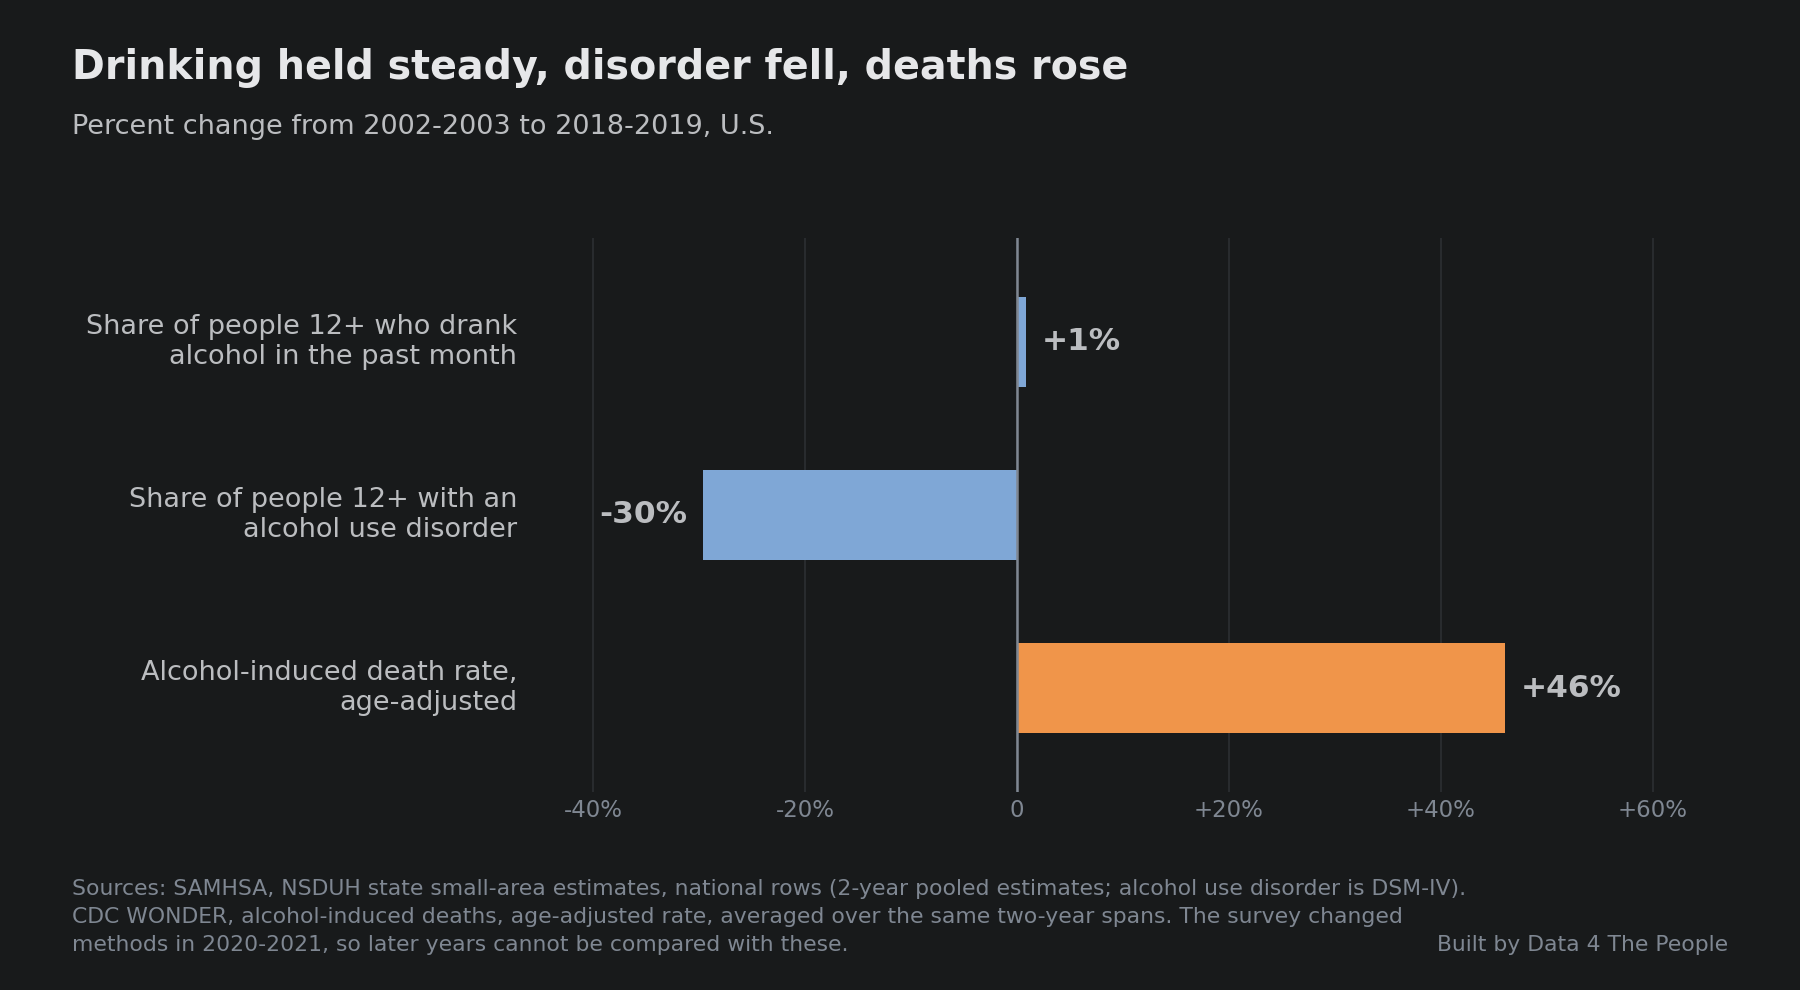
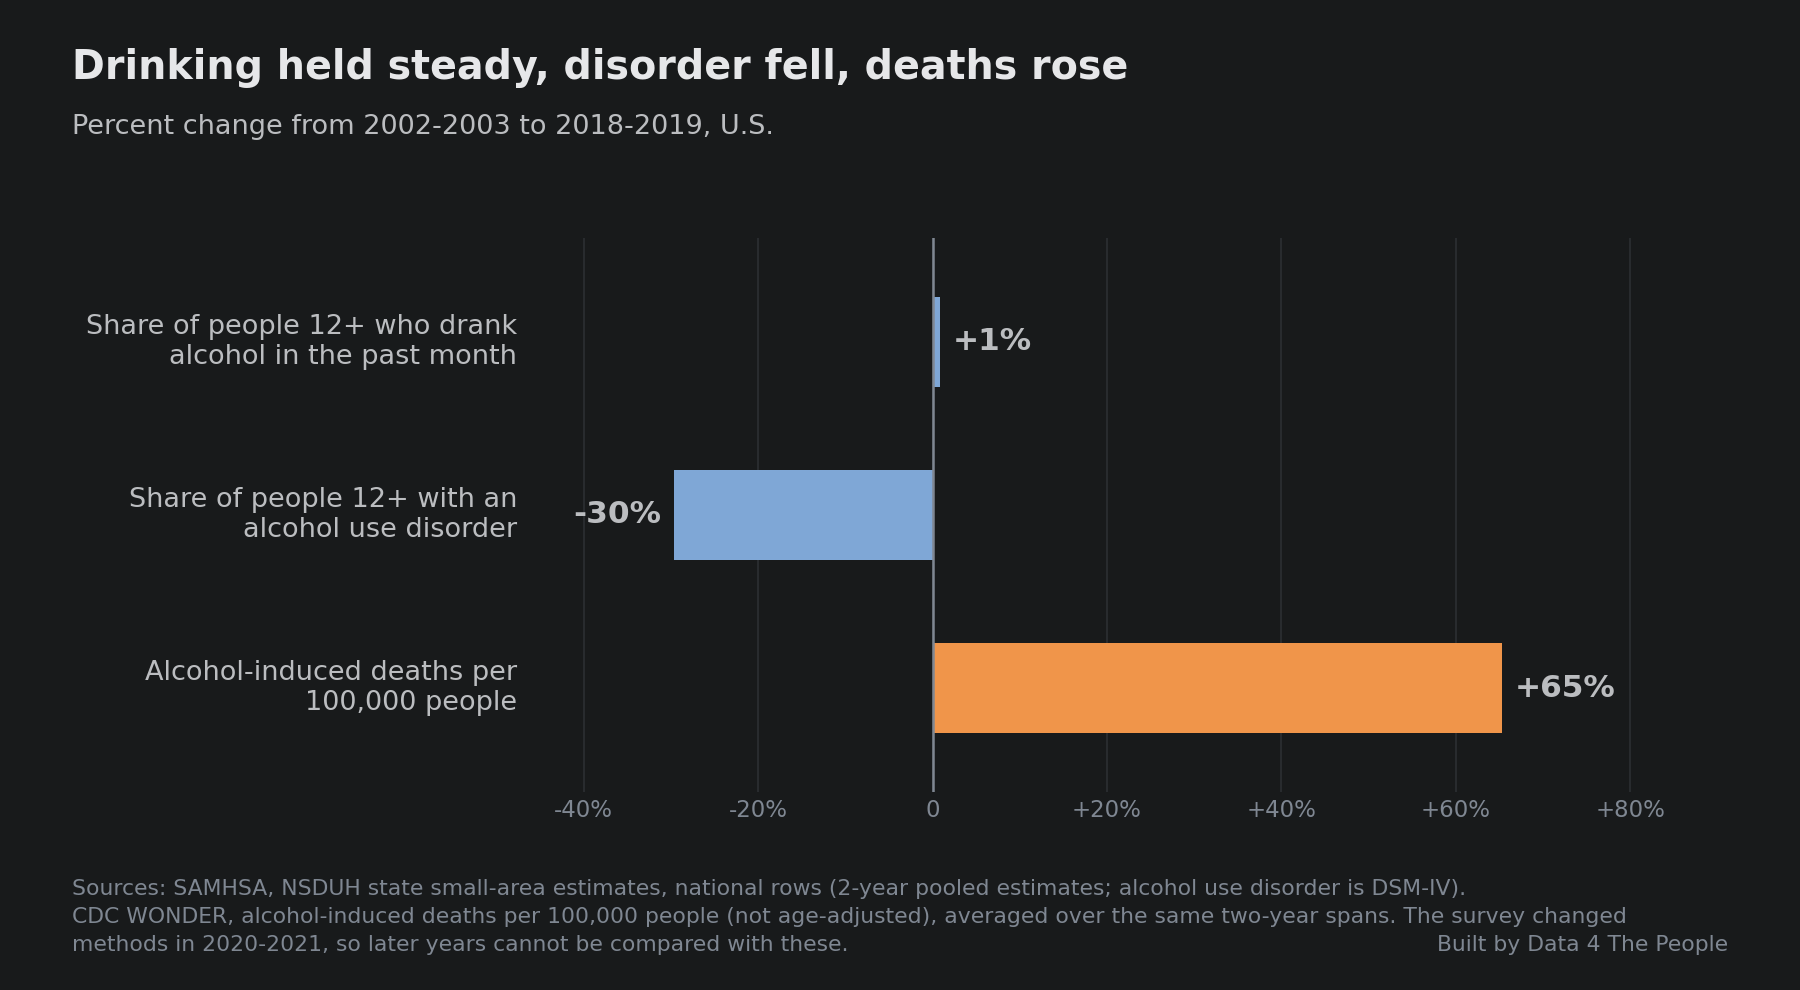
alcohol-deaths-data-for-thought: 2a edits applied, chart 4, About the data

diff --git a/scripts/alcohol/make_charts.py b/scripts/alcohol/make_charts.py
@@ -62,7 +62,7 @@ nv = n[n.bev == "all"].set_index("year").pc14  # NIAAA report #124 data file, ag
 rows = [
     ("Share of people 12+ who drank\nalcohol in the past month", pct(sv["ALCMON", 2003], sv["ALCMON", 2019]), SURVEY),
     ("Share of people 12+ with an\nalcohol use disorder", pct(sv["ABODALC", 2003], sv["ABODALC", 2019]), SURVEY),
-    ("Alcohol-induced death rate,\nage-adjusted", pct(avg("age_adjusted", 2002, 2003), avg("age_adjusted", 2018, 2019)), DEATH),
+    ("Alcohol-induced deaths per\n100,000 people", pct(avg("crude", 2002, 2003), avg("crude", 2018, 2019)), DEATH),
 ]
 fig, ax = plt.subplots(figsize=(12, 6.6), dpi=150)
 fig.patch.set_facecolor(BG); ax.set_facecolor(BG)
@@ -74,15 +74,16 @@ for i, (lab, v, c) in enumerate(rows):
             fontsize=15, fontweight="bold", color=TXT)
     ax.text(-0.02, yy, lab, transform=ax.get_yaxis_transform(), ha="right", va="center", fontsize=13, color=TXT)
 ax.axvline(0, color=MUTED, lw=1.2)
-ax.set_xlim(-45, 62); ax.set_yticks([]); ax.set_ylim(-0.6, len(rows) - 0.4)
-ax.set_xticks(range(-40, 61, 20)); ax.set_xticklabels([f"{t:+d}%" if t else "0" for t in range(-40, 61, 20)])
+ax.set_xlim(-45, 85); ax.set_yticks([]); ax.set_ylim(-0.6, len(rows) - 0.4)
+ax.set_xticks(range(-40, 81, 20)); ax.set_xticklabels([f"{t:+d}%" if t else "0" for t in range(-40, 81, 20)])
+assert max(v for _, v, _ in rows) < 75, "bar label would clip"
 ax.grid(axis="x", color=GRID, lw=0.8); ax.set_axisbelow(True)
 for sp in ("top", "right", "left", "bottom"): ax.spines[sp].set_visible(False)
 ax.tick_params(length=0, labelsize=11)
 fig.text(0.04, 0.92, "Drinking held steady, disorder fell, deaths rose", fontsize=19, fontweight="bold", color="#e6e7e9")
 fig.text(0.04, 0.865, "Percent change from 2002-2003 to 2018-2019, U.S.", fontsize=13, color=TXT)
 foot(fig, "Sources: SAMHSA, NSDUH state small-area estimates, national rows (2-year pooled estimates; alcohol use disorder is DSM-IV).\n"
-          "CDC WONDER, alcohol-induced deaths, age-adjusted rate, averaged over the same two-year spans. The survey changed\n"
+          "CDC WONDER, alcohol-induced deaths per 100,000 people (not age-adjusted), averaged over the same two-year spans. The survey changed\n"
           "methods in 2020-2021, so later years cannot be compared with these.")
 fig.savefig(os.path.join(OUT, "01-alcohol-change.png"), facecolor=BG)
 plt.close(fig)
@@ -126,3 +127,36 @@ foot(fig, "Source: NIAAA Surveillance Report #124 data file. Sales and shipments
 fig.savefig(os.path.join(OUT, "03-beer-to-spirits.png"), facecolor=BG)
 plt.close(fig)
 print("chart 3 strength", round(strength[0], 2), round(strength[yrs.index(2019)], 2), round(strength[-1], 2), "gal", round(gal0, 2), round(gal1, 2))
+
+# ---------- Chart 4: fewer gallons of drinks, more alcohol in each, more pure alcohol ----------
+def navg(col, ys): return n[n.bev == "all"].set_index("year")[col].loc[ys].mean()
+Y0, Y1 = [2002, 2003], [2018, 2019]
+g0, g1 = navg("beverage_gal_pc14", Y0), navg("beverage_gal_pc14", Y1)
+e0, e1 = navg("pc14_timevarying_abv", Y0), navg("pc14_timevarying_abv", Y1)
+rows4 = [("Gallons of beer, wine and\nspirits sold per person 14+", pct(g0, g1)),
+         ("Average alcohol content\nof those drinks", pct(e0 / g0, e1 / g1)),
+         ("Pure alcohol sold\nper person 14+", pct(e0, e1))]
+fig, ax = plt.subplots(figsize=(12, 6.6), dpi=150)
+fig.patch.set_facecolor(BG); ax.set_facecolor(BG)
+fig.subplots_adjust(left=0.30, right=0.93, top=0.76, bottom=0.20)
+for i, (lab, v) in enumerate(rows4):
+    yy = len(rows4) - 1 - i
+    ax.barh(yy, v, height=0.52, color=SURVEY)
+    ax.text(v + (0.6 if v >= 0 else -0.6), yy, f"{v:+.0f}%", va="center", ha="left" if v >= 0 else "right",
+            fontsize=15, fontweight="bold", color=TXT)
+    ax.text(-0.02, yy, lab, transform=ax.get_yaxis_transform(), ha="right", va="center", fontsize=13, color=TXT)
+ax.axvline(0, color=MUTED, lw=1.2)
+ax.set_xlim(-15, 25); ax.set_yticks([]); ax.set_ylim(-0.6, len(rows4) - 0.4)
+ax.set_xticks(range(-10, 21, 10)); ax.set_xticklabels([f"{t:+d}%" if t else "0" for t in range(-10, 21, 10)])
+ax.grid(axis="x", color=GRID, lw=0.8); ax.set_axisbelow(True)
+for sp in ("top", "right", "left", "bottom"): ax.spines[sp].set_visible(False)
+ax.tick_params(length=0, labelsize=11)
+fig.text(0.04, 0.92, "Fewer gallons of drinks, but more pure alcohol", fontsize=19, fontweight="bold", color="#e6e7e9")
+fig.text(0.04, 0.865, "Percent change from 2002-2003 to 2018-2019, U.S.", fontsize=13, color=TXT)
+foot(fig, "Source: NIAAA Surveillance Report #124 data file, two-year averages. Sales and shipments, not measured drinking.\n"
+          "Alcohol content uses NIAAA's year-by-year estimates for each drink type. With NIAAA's fixed content, pure alcohol\n"
+          "per person rose 7%.")
+fig.savefig(os.path.join(OUT, "04-fewer-gallons-more-alcohol.png"), facecolor=BG)
+plt.close(fig)
+for lab, v in rows4: print(lab.replace("\n", " "), round(v, 2))
+print("chart 4 values", round(g0, 2), round(g1, 2), round(100 * e0 / g0, 2), round(100 * e1 / g1, 2), round(e0, 3), round(e1, 3))

diff --git a/posts/alcohol-deaths-data-for-thought/POST.md b/posts/alcohol-deaths-data-for-thought/POST.md
@@ -22,29 +22,43 @@ Alcohol use in America is going down.
 
 Right?
 
-I’ve been a passive consumer of media on this topic, seeing random headlines in passing. Over times, these headlines created that story in my mind that alcohol use in America is in structural decline.
+I’ve been a passive consumer of media on this topic, seeing random headlines in passing. Over time, these headlines created that story in my mind that alcohol use in America is in structural decline.
 
-But then I spent some time studying Jameson’s Substance Abuse Disorder (SUD) map and realized my reckless passive consumption of media on this topic created a flawed story in my mind.
+But then I spent some time studying Jameson’s [Substance Use Disorder (SUD) map](https://www.data4thepeople.com/p/substance-use-treatment-viz) and realized my reckless passive consumption of media on this topic created a flawed story in my mind.
 
-So here is what you need to know. The headlines are right. Alcoholism is down, as measured by Americans we track with SUD. In fact, it’s down 30% over the past 20 years. And at the same time, Alcoholism is far more deadly than it was two decades ago – killing 46% more people per capita.
+So here is what you need to know. The headlines are right. Alcoholism is down, as measured by Americans we track with SUD. In fact, it fell 30% in the 16 years before the pandemic. And over the same years, alcohol became far more deadly – killing 65% more people per capita.
 
-![Bar chart of percent change from 2002-2003 to 2018-2019: share of people 12 and older who drank alcohol in the past month +1%, share with an alcohol use disorder -30%, age-adjusted alcohol-induced death rate +46%.](images/01-alcohol-change.png)
+![Bar chart of percent change from 2002-2003 to 2018-2019: share of people 12 and older who drank alcohol in the past month +1%, share with an alcohol use disorder -30%, alcohol-induced deaths per 100,000 people +65%.](images/01-alcohol-change.png)
 *Sources: SAMHSA, National Survey on Drug Use and Health state estimates; CDC WONDER.*
 
-I was shocked when I saw this data, because none of the headlines ever mentioned it. How can the death rate from alcoholism be up so much at the same time consumption is in decline?
+I was shocked when I saw this data, because none of the headlines ever mentioned it. How can the death rate from alcoholism be up so much at the same time alcoholism is in decline?
 
-I immediately assumed it must be age. Twenty years ago, America was far younger, with a median age of just 36.1. Now America’s median age is 39.1. The same is true of Americans with an alcohol use disorder: the share who are 26 or older rose from 61% in 2002-2003 to 75% in 2018-2019, as rates among teens and young adults fell fastest. So, it’s the cumulative impact of alcohol consumption that is leading to more deaths? Wrong. As the chart below shows, when you age adjust the data, you get the same trend.
+I immediately assumed it must be age. Twenty years ago, America was far younger, with a median age of just 36.1. Now America’s median age is 39.1. The same is true of Americans with an alcohol use disorder: the share who are 26 or older rose from 61% in 2002-2003 to 75% in 2018-2019, as rates among teens and young adults fell fastest. So, it’s the cumulative impact of alcohol consumption that is leading to more deaths? Wrong. As the chart below shows, when you age adjust the data, most of the rise is still there: deaths per capita rose 46% after adjusting for age, compared with 65% before.
 
 ![Line chart of alcohol-induced deaths per 100,000 people, 1999-2024. The age-adjusted rate rose from 7.1 in 1999 to 10.4 in 2019, peaked at 14.4 in 2021, and was 12.1 in 2024. The crude rate runs slightly higher.](images/02-alcohol-death-rate.png)
 *Source: CDC WONDER, alcohol-induced deaths. Age-adjusted to the 2000 U.S. standard population.*
 
-In fact, when I studied the data, I could only find one explanation that made sense.
+In fact, when I studied the data, I found one pattern that stands out.
 
 Mix.
 
-Remember, our old friend, mix? I’ve written about it in the context of America’s demographics and education. Well, mix is having a clear impact here. America’s taste for alcohol is moving from beer to spirits. Spirits have a far higher alcohol content than beer, so even though Americans are consuming less gallons of alcoholic product per person, they are really consuming around 8% more pure alcohol per person.
+Remember, our old friend, mix? I’ve written about it in the context of America’s demographics and education. Well, mix is showing up here too. America’s taste for alcohol is moving from beer to spirits. Spirits have a far higher alcohol content than beer, so even though Americans are buying fewer gallons of beer, wine and spirits per person, they are buying about 9% more pure alcohol per person.
 
 ![Two-panel line chart, 2002-2024. Left: pure alcohol sold per person 14 and older, beer 1.29 to 1.04 gallons, spirits 0.58 to 0.85, wine 0.29 to 0.35. Right: average alcohol content of all drinks sold, 6.9% to 8.3%.](images/03-beer-to-spirits.png)
 *Source: NIAAA Surveillance Report #124 data file. Sales and shipments, not measured drinking.*
 
+Over the same years as the first chart, here is how fewer gallons added up to more pure alcohol.
+
+![Bar chart of percent change per person 14 and older from 2002-2003 to 2018-2019: gallons of beer, wine and spirits sold -8%, average alcohol content of those drinks +18%, pure alcohol sold +9%.](images/04-fewer-gallons-more-alcohol.png)
+*Source: NIAAA Surveillance Report #124 data file. Sales and shipments, not measured drinking.*
+
 Ultimately, we can’t wrap an answer bow around this topic, which is why it’s a perfect Data 4 Thought topic. But what we can say is this: if the ultimate arbiter of success in fighting alcoholism is life and death, America is doing far worse in this area than many think.
+
+## About the data
+
+- **Alcohol use disorder and drinking.** SAMHSA's National Survey on Drug Use and Health, state small-area estimates, national rows, people 12 and older. Each estimate pools two survey years. We compare 2002-2003 with 2018-2019 because the survey changed how it is given and how it measures alcohol use disorder in 2021, so later years cannot be compared with earlier ones. SAMHSA does not publish a median age for people with an alcohol use disorder, so we use the share who are 26 or older.
+- **Deaths.** CDC WONDER, deaths whose underlying cause is alcohol-induced, such as alcoholic liver disease or alcohol poisoning. These do not include drunk-driving crashes or other injuries where alcohol played a part. Age-adjusted rates use the 2000 U.S. standard population. For 2021-2024 we age-adjusted CDC's counts ourselves; the same method matches CDC's published rates within 0.06 per 100,000 in every year from 1999 to 2020.
+- **Alcohol sold.** NIAAA Surveillance Report #124. These are sales and shipments, not measured drinking. They include alcohol bought by tourists and across state lines, and leave out homemade and illegal alcohol. Alcohol content uses NIAAA's year-by-year estimates for each drink type. NIAAA's headline series assumes fixed alcohol content and shows a 7% rise in pure alcohol per person instead of 9%.
+- **Median age.** U.S. Census Bureau population estimates for 2004 and 2024.
+- **What this does not tell you.** These are national totals. They show that deaths rose while alcohol use disorder fell and the mix of drinks changed. They do not show why any one person died, or how much of the rise in deaths the change in mix explains.
+- **Method, code and data:** [github.com/Data4ThePeople/SUD_V3](https://github.com/Data4ThePeople/SUD_V3), in `DATASETS.md` and `scripts/alcohol/`.

diff --git a/DATASETS.md b/DATASETS.md
@@ -470,10 +470,11 @@ System, Mortality 1999-2020 and 2018-2024 on CDC WONDER Online Database.
 
 ## Alcohol data for thought: national trend (added 2026-11-12)
 
-Two charts for a short post on whether drinking is getting more deadly. Built by
+Four charts for the post `alcohol-deaths-data-for-thought`. Built by
 `scripts/alcohol/build_series.py` (writes `data/build/alcohol/deaths_national.csv`
 and `nsduh_national.csv`) and `scripts/alcohol/make_charts.py` (writes
-`dist/alcohol/01-alcohol-death-rate.png` and `02-alcohol-change.png`).
+`dist/alcohol/01-alcohol-change.png`, `02-alcohol-death-rate.png`,
+`03-beer-to-spirits.png` and `04-fewer-gallons-more-alcohol.png`).
 
 **Deaths: alcohol-induced, underlying cause, U.S., 1999-2024.** Same 14 ICD-10
 codes as the map (see the CDC WONDER section).
@@ -506,11 +507,24 @@ codes as the map (see the CDC WONDER section).
 - Binge drinking is not charted: the definition for women changed in 2015
   (and the outcome code changed), so the series breaks there.
 
-**Chart 2 percent changes** compare the 2002-2003 window with 2018-2019, the
-longest span the survey allows. The death rate is averaged over the same two
-calendar years (2002 and 2003; 2018 and 2019) to match.
-Pure alcohol sold per person 14+ uses the NIAAA report #124 data file (all
-beverages, fixed ABV), averaged the same way.
+**Chart 1 percent changes** compare the 2002-2003 window with 2018-2019, the
+longest span the survey allows. The death bar is the crude rate (deaths per
+100,000 people, not age-adjusted), averaged over the same two calendar years
+(2002 and 2003; 2018 and 2019): +65%. The age-adjusted rate over the same span,
+quoted in the post text, is +46%.
+
+**Age of people with alcohol use disorder** (post text): SAMHSA publishes no
+median age, so the post uses the share of people 12+ with ABODALC who are 26+,
+from the 1999-2019 SAE dataset national counts (`est_total`, agegrp 3 over
+agegrp 0): 11,020 of 17,952 thousand (61%) in 2002-2003, 10,976 of 14,661
+thousand (75%) in 2018-2019. Rates by age, same windows: 12-17 5.9% to 1.6%;
+18-25 17.4% to 9.7%; 26+ 6.1% to 5.1%.
+
+**U.S. median age** (post text): 36.1 in 2004, from the Census Bureau's
+2000-2010 intercensal estimates, Table 1 (`data/raw/census/us-est00int-01.csv`,
+https://www2.census.gov/programs-surveys/popest/tables/2000-2010/intercensal/national/us-est00int-01.csv).
+39.1 in 2024, from the Vintage 2024 estimates
+(https://census.gov/library/stories/2025/06/metro-areas-median-age.html).
 
 **Alcohol sold per person: NIAAA apparent per capita ethanol consumption.**
 Built by `scripts/alcohol/build_niaaa.py` into
@@ -561,3 +575,10 @@ NIAAA #124 data file, national, 2002-2024:
   (2018) to 0.324 (2024). The report gives no reason; it says the drop "will
   continue to be monitored closely in future reports." The 2022 dip in spirits comes
   from that year's lower ABV estimate (0.345), not lower sales volume.
+
+**Chart 4, fewer gallons of drinks, more pure alcohol**
+(`04-fewer-gallons-more-alcohol.png`), NIAAA #124 data file, national, ages
+14+, two-year averages 2002-2003 vs 2018-2019, time-varying ABV:
+gallons of beer, wine and spirits per person -7.7%; average alcohol content
+(pure alcohol / gallons of drinks) +17.7%; pure alcohol per person +8.7%. With
+fixed ABV, pure alcohol per person is +7.2%, stated in the chart's note.

diff --git a/STATUS.md b/STATUS.md
@@ -281,3 +281,4 @@ National tests (CDC WONDER API, `data/raw/wonder_api/`; Eric's exports
 - 2026-11-12 Eric: Step 1 done. Slug alcohol-deaths-data-for-thought. Step 2a open: posts/alcohol-deaths-data-for-thought/ created with charts 01 and 02 in images/.
 - 2026-11-12 Eric (during 2a): added Chart 3, beer to spirits (NIAAA time-varying ABV): pure alcohol per person by type, and average alcohol content of all drinks sold, 6.9% (2002) to 8.3% (2024), while gallons of drinks per person fell 31.4 to 26.8. Step 1 work, nothing confirmed after it, so nothing stale. Independent tie-out of Chart 3 started.
 - 2026-11-12 Independent tie-out of Chart 3: all values match (0 differences). Title changed to "Less beer, more spirits, and more alcohol in each gallon sold" (the rise is from the mix, not stronger drinks of each type). DATASETS: canned-cocktail guess removed (report gives no reason for the spirits ABV drop); all-beverage time-varying ethanol now read from the file and checked against the sum.
+- 2026-11-13 Eric accepted 2a edits 1-8 and questions 1-3: chart 1 death bar now crude rate (+65%); new chart 4 (gallons -8%, alcohol content +18%, pure alcohol +9%); About the data section added. Census median age and AUD 26+ share added to DATASETS. Independent tie-out of the post's numbers and charts 1 and 4 started.
